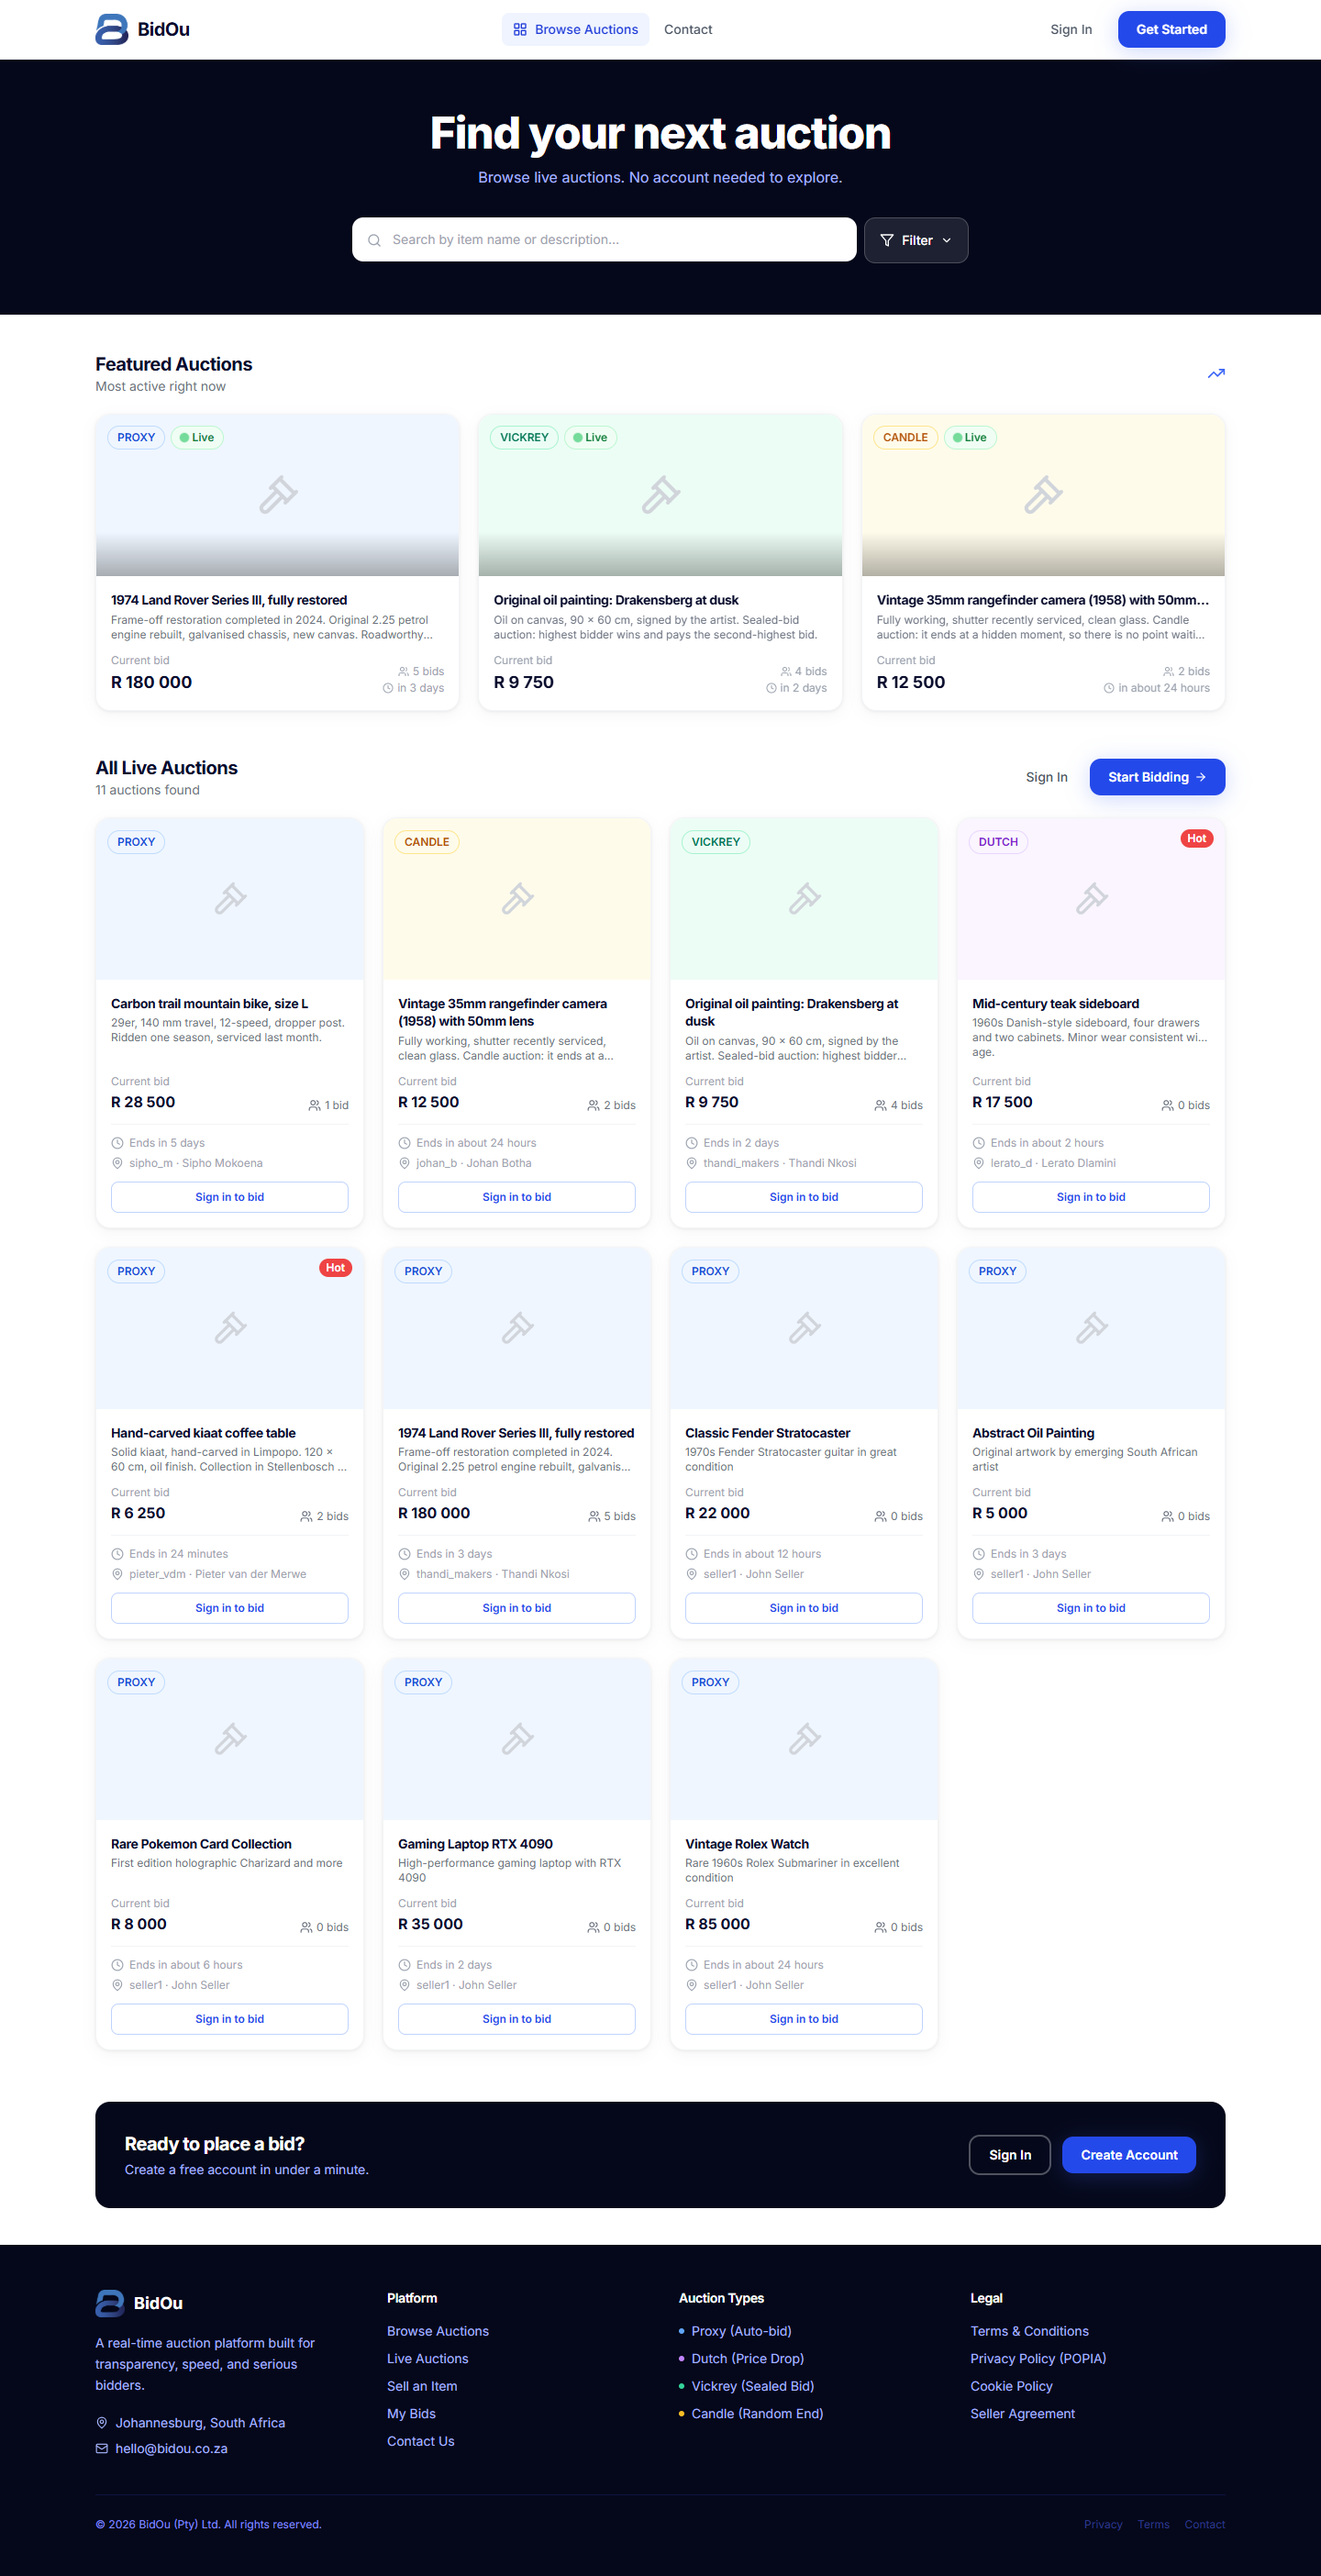
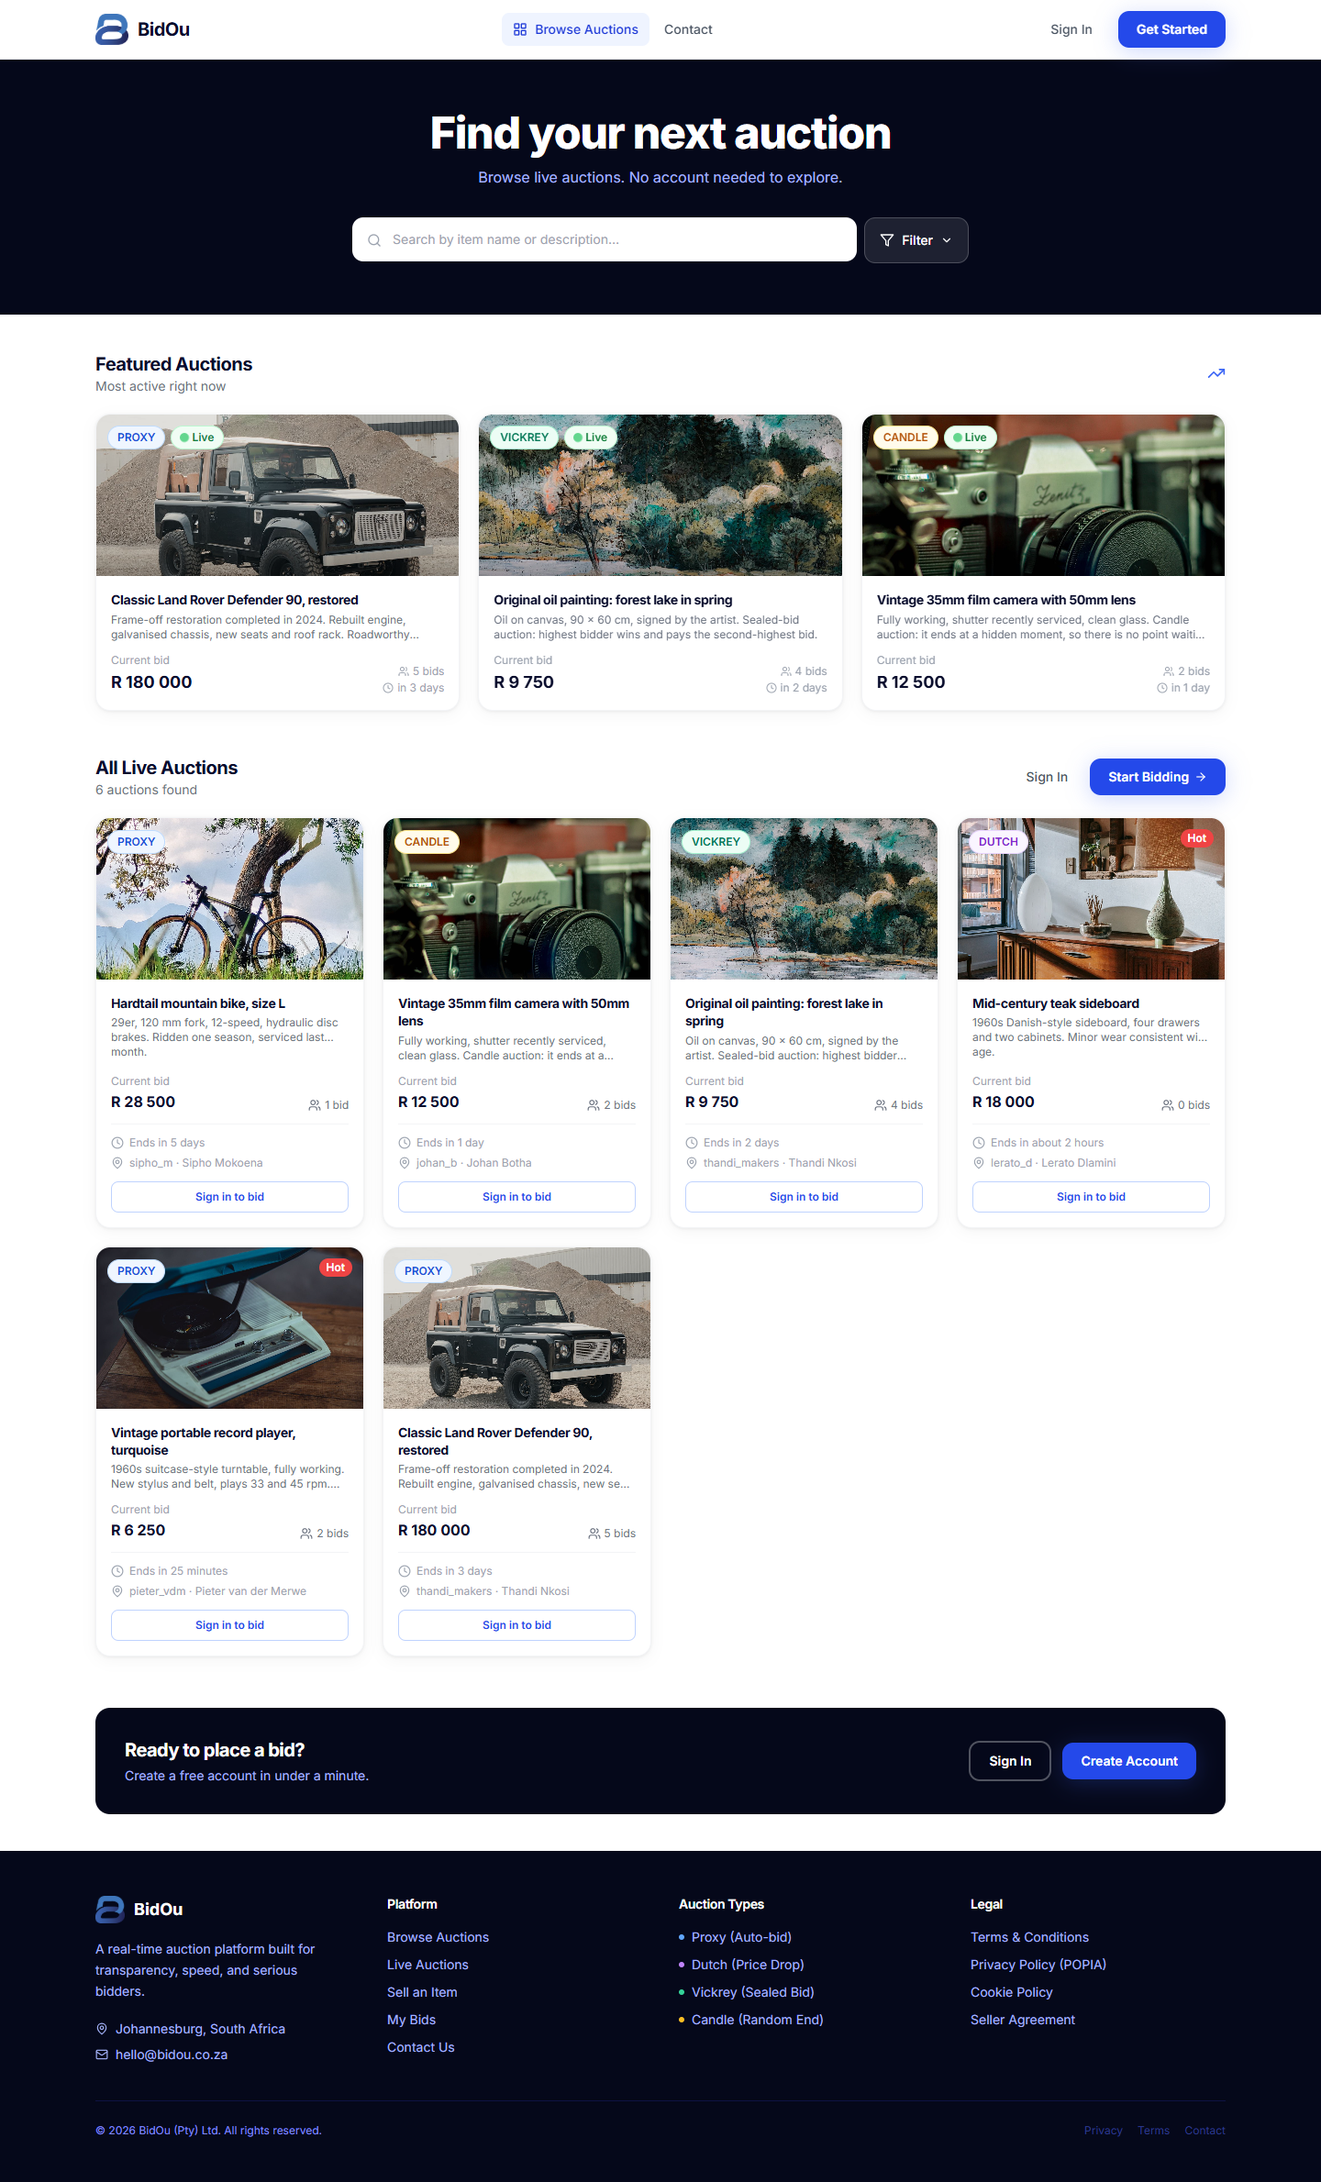
Retake screenshots with product photos

diff --git a/docs/screenshots/README.md b/docs/screenshots/README.md
@@ -17,3 +17,15 @@ live in the private repo.
 | `create-auction.png` | Seller's create-auction form |
 | `admin-panel.png` | Admin operations dashboard with an auction awaiting review |
 | `mobile-browse.png` / `mobile-auction.png` | 390 px wide mobile layout |
+
+Product photos in the demo listings are free stock images from
+[Pexels](https://www.pexels.com/license/), uploaded through the app's own media
+endpoint. Sources:
+[Land Rover](https://www.pexels.com/photo/30782256/),
+[record player](https://www.pexels.com/photo/8336013/),
+[sideboard](https://www.pexels.com/photo/5824530/),
+[painting](https://www.pexels.com/photo/5739358/),
+[camera](https://www.pexels.com/photo/16104735/),
+[mountain bike](https://www.pexels.com/photo/16082647/),
+[plates](https://www.pexels.com/photo/6611494/).
+The items, sellers and bids are fictional.
